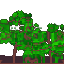
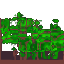
Auto push from gen.py

diff --git a/projects/Glass Block Refraction/index.html b/projects/Glass Block Refraction/index.html
@@ -38,23 +38,23 @@
                     <div class="action-bar">
                         <a class="action-download" href="./Glass Block Refraction_121092.pxc">
                             <div class="icon"></div>
-                            <p>Download .pxc (15.41 kb)</p>
+                            <p>Download .pxc (16.77 kb)</p>
                         </a>
                     </div>
                 </div>
                 <div class="details">
                     <div style="height: 16px;"></div>
-                    <p>14/9/2026</p>
-                    <p><span class='version-major'>v1.21</span>.10.001</p>
+                    <p>15/9/2026</p>
+                    <p><span class='version-major'>v1.21</span>.10.002</p>
                 </div>
             </div>
             
             <div class="content">
                 <div class="content-wrapper">
-                    <div class="pxc-viewer" id="pxc_viewer" style="width: 1272px; height: 1168px;">
-                        <canvas id="pxc_canvas_under" width="2544" height="2336"></canvas>
+                    <div class="pxc-viewer" id="pxc_viewer" style="width: 1408px; height: 1216px;">
+                        <canvas id="pxc_canvas_under" width="2816" height="2432"></canvas>
                         <div id="pxc-nodecontent" class="pxc-nodecontent"></div>
-                        <canvas id="pxc_canvas_over" width="2544" height="2336"></canvas>
+                        <canvas id="pxc_canvas_over" width="2816" height="2432"></canvas>
                     </div>
                 </div>
             </div>
@@ -178,71 +178,88 @@
 
     }
 
-drawNode("Grid", "https://docs.pixel-composer.com/nodes/_index/node_grid.html", 136, 384, 128, 128, "./src/gSDF4u421661AoRs9UHD5aQ0Xwkj5Hq6.png");
-drawNode("Displace", "https://docs.pixel-composer.com/nodes/_index/node_displace.html", 792, 208, 128, 128, "./src/gSDF5B4365384JksJyHTcv513SC542QN.png");
-connect(760, 56, 792, 232);
-connect(600, 408, 792, 248);
-drawNode("Level", "https://docs.pixel-composer.com/nodes/_index/node_level.html", 312, 384, 128, 128, "./src/gSDF5X458820lIhxW0Ktot5HcaCHNYoH.png");
-connect(264, 408, 312, 408);
-drawNode("Blur", "https://docs.pixel-composer.com/nodes/_index/node_blur.html", 472, 384, 128, 128, "./src/gSDF5k471654QfHWycITLP9SAklbxWXW.png");
-connect(440, 568, 472, 408);
-drawPolygon([[120,368],[376,368],[376,176],[80,176],[80,288]], "#50EB17");
-drawNode("Trunk", "https://docs.pixel-composer.com/nodes/_index/node_mk_tree_root.html", 32, 208, 96, 48, "./src/gSDF6V517021ELc9EKlBeK5iXfb9Gzvc.png");
-drawNode("Render Tree", "https://docs.pixel-composer.com/nodes/_index/node_mk_tree_render.html", 312, 208, 128, 128, "./src/gSDF6V517026CyuI78SHu6VubYmX3v2B.png");
-connect(248, 312, 312, 232);
-drawNode("Branch", "https://docs.pixel-composer.com/nodes/_index/node_mk_tree_branch.html", 152, 208, 96, 48, "./src/gSDF6m533645vp26Wk7Lmdsks8Y9dNnX.png");
-connect(128, 232, 152, 232);
-drawNode("Leaves", "https://docs.pixel-composer.com/nodes/_index/node_mk_tree_leaf.html", 152, 288, 96, 48, "./src/gSDF7D558969D3MZ1k5DVw2fQfUi51Et.png");
-connect(248, 232, 152, 312);
-drawNode("Draw Shape", "https://docs.pixel-composer.com/nodes/_index/node_shape.html", 312, 32, 128, 128, "./src/gSDF9X698441EITSARA0faJCVacAhC6q.png");
-drawNode("Blend", "https://docs.pixel-composer.com/nodes/_index/node_blend.html", 472, 208, 128, 128, "./src/gSDF9f707160YqzO6zIqPbbg77Q0ON8X.png");
-connect(440, 56, 472, 232);
-connect(440, 232, 472, 248);
-drawNode("Draw Gradient", "https://docs.pixel-composer.com/nodes/_index/node_gradient.html", 792, 32, 128, 128, "./src/gSDFAB736748QBfdynQWJt93qn3y2arH.png");
-drawNode("Posterize", "https://docs.pixel-composer.com/nodes/_index/node_posterize.html", 1112, 1008, 128, 128, "./src/gSDFAi769794aqfifGPMnFF0oXfSSMt2.png");
-connect(1240, 872, 1112, 1032);
-drawNode("Blend", "https://docs.pixel-composer.com/nodes/_index/node_blend.html", 952, 208, 128, 128, "./src/gSDFAv7832278z7sg48fiLHsD4V8gsiJ.png");
-connect(920, 56, 952, 232);
-connect(1080, 392, 952, 248);
-drawNode("Draw Shape", "https://docs.pixel-composer.com/nodes/_index/node_shape.html", 472, 32, 128, 128, "./src/gSDFCD858951CslUdqxzo7QswWaKh7fO.png");
-drawNode("Blend", "https://docs.pixel-composer.com/nodes/_index/node_blend.html", 632, 32, 128, 128, "./src/gSDFCH862695fBzC1wBxZyySCwyd8mJc.png");
-connect(600, 56, 632, 56);
-connect(600, 232, 632, 72);
-drawNode("Outline", "https://docs.pixel-composer.com/nodes/_index/node_outline.html", 792, 368, 128, 128, "./src/gSDFCh888768Hgcm9FkudI4dyRagBjY9.png");
-connect(920, 232, 792, 392);
-drawNode("Color Adjust", "https://docs.pixel-composer.com/nodes/_index/node_color_adjust.html", 952, 368, 128, 128, "./src/gSDFDY939302nHTxhcCXvN4MqSaXSzdy.png");
-connect(920, 392, 952, 392);
-drawNode("Vignette", "https://docs.pixel-composer.com/nodes/_index/node_vignette.html", 1112, 368, 128, 128, "./src/gSDFDr958839g9QkqCwEgmrf30rdJF6F.png");
-connect(1240, 232, 1112, 392);
-drawNode("Color Adjust", "https://docs.pixel-composer.com/nodes/_index/node_color_adjust.html", 1112, 208, 128, 128, "./src/gSDFEa1001690UWE75JxSdpnA14iyDX7.png");
-connect(1080, 232, 1112, 232);
-connect(600, 408, 1112, 248);
-drawNode("Normal", "https://docs.pixel-composer.com/nodes/_index/node_normal.html", 472, 560, 128, 128, "./src/gSDFFc10636997PczmYvJ7J4OZUBA8gA.png");
-connect(600, 408, 472, 584);
-drawNode("Normal Light", "https://docs.pixel-composer.com/nodes/_index/node_normal_light.html", 632, 544, 128, 128, "./src/gSDFFf1066615A4N7cet5ruuxVzAL29o.png");
-connect(760, 520, 632, 568);
-connect(600, 584, 632, 584);
-drawNode("Solid", "https://docs.pixel-composer.com/nodes/_index/node_solid.html", 632, 512, 128, 16);
-drawNode("Normal Light", "https://docs.pixel-composer.com/nodes/_index/node_normal_light.html", 632, 704, 128, 128, "./src/gSDFHH1162347bbZ45wBDabUMbJkxy6c.png");
-connect(760, 520, 632, 728);
-connect(600, 584, 632, 744);
-drawNode("Color Adjust", "https://docs.pixel-composer.com/nodes/_index/node_color_adjust.html", 1112, 528, 128, 128, "./src/gSDFHR1172929rZkNzQH9XEwlIhCRwd4.png");
-connect(1240, 392, 1112, 552);
-connect(760, 568, 1112, 568);
-drawNode("Color Adjust", "https://docs.pixel-composer.com/nodes/_index/node_color_adjust.html", 1112, 688, 128, 128, "./src/gSDFHh1188402RMpbbRTxgiBuQ5HWshh.png");
-connect(1240, 552, 1112, 712);
-connect(760, 728, 1112, 728);
-drawNode("Curve", "https://docs.pixel-composer.com/nodes/_index/node_curve.html", 312, 544, 128, 128, "./src/gSDFJV1296798u16SUCVA9wHTsEloRuy.png");
-connect(440, 408, 312, 568);
-drawNode("Stripe", "https://docs.pixel-composer.com/nodes/_index/node_stripe.html", 792, 816, 128, 128, "./src/gSDFKU1355298TSQwaz019E7Xczva9lB.png");
-drawNode("Displace", "https://docs.pixel-composer.com/nodes/_index/node_displace.html", 952, 816, 128, 128, "./src/gSDFKg1367381wUIa94XQl6USs9AKJfx.png");
-connect(920, 840, 952, 840);
-connect(760, 888, 952, 856);
-drawNode("Invert", "https://docs.pixel-composer.com/nodes/_index/node_invert.html", 632, 864, 128, 128, "./src/gSDFL41389858YBYDV3OoI3V9xKp1cgW.png");
-connect(600, 408, 632, 888);
-drawNode("Blend", "https://docs.pixel-composer.com/nodes/_index/node_blend.html", 1112, 848, 128, 128, "./src/gSDFLN1408595S09RccURORngAGCaMD7.png");
-connect(1240, 712, 1112, 872);
-connect(1080, 840, 1112, 888);
+drawNode("Displace", "https://docs.pixel-composer.com/nodes/_index/node_displace.html", 832, 208, 128, 128, "./src/gSDF5B4365384JksJyHTcv513SC542QN.png");
+connect(800, 56, 832, 232);
+connect(640, 408, 832, 248);
+drawNode("Blur", "https://docs.pixel-composer.com/nodes/_index/node_blur.html", 512, 384, 128, 128, "./src/gSDF5k471654QfHWycITLP9SAklbxWXW.png");
+connect(480, 568, 512, 408);
+drawPolygon([[160,368],[416,368],[416,176],[120,176],[120,288]], "#50EB17");
+drawNode("Trunk", "https://docs.pixel-composer.com/nodes/_index/node_mk_tree_root.html", 72, 208, 96, 48, "./src/gSDF6V517021ELc9EKlBeK5iXfb9Gzvc.png");
+drawNode("Render Tree", "https://docs.pixel-composer.com/nodes/_index/node_mk_tree_render.html", 352, 208, 128, 128, "./src/gSDF6V517026CyuI78SHu6VubYmX3v2B.png");
+connect(288, 312, 352, 232);
+drawNode("Branch", "https://docs.pixel-composer.com/nodes/_index/node_mk_tree_branch.html", 192, 208, 96, 48, "./src/gSDF6m533645vp26Wk7Lmdsks8Y9dNnX.png");
+connect(168, 232, 192, 232);
+drawNode("Leaves", "https://docs.pixel-composer.com/nodes/_index/node_mk_tree_leaf.html", 192, 288, 96, 48, "./src/gSDF7D558969D3MZ1k5DVw2fQfUi51Et.png");
+connect(288, 232, 192, 312);
+drawNode("Draw Shape", "https://docs.pixel-composer.com/nodes/_index/node_shape.html", 352, 32, 128, 128, "./src/gSDF9X698441EITSARA0faJCVacAhC6q.png");
+drawNode("Blend", "https://docs.pixel-composer.com/nodes/_index/node_blend.html", 512, 208, 128, 128, "./src/gSDF9f707160YqzO6zIqPbbg77Q0ON8X.png");
+connect(480, 56, 512, 232);
+connect(480, 232, 512, 248);
+drawNode("Draw Gradient", "https://docs.pixel-composer.com/nodes/_index/node_gradient.html", 832, 32, 128, 128, "./src/gSDFAB736748QBfdynQWJt93qn3y2arH.png");
+drawNode("Blend", "https://docs.pixel-composer.com/nodes/_index/node_blend.html", 992, 208, 128, 128, "./src/gSDFAv7832278z7sg48fiLHsD4V8gsiJ.png");
+connect(960, 56, 992, 232);
+connect(1120, 392, 992, 248);
+drawNode("Draw Shape", "https://docs.pixel-composer.com/nodes/_index/node_shape.html", 512, 32, 128, 128, "./src/gSDFCD858951CslUdqxzo7QswWaKh7fO.png");
+drawNode("Blend", "https://docs.pixel-composer.com/nodes/_index/node_blend.html", 672, 32, 128, 128, "./src/gSDFCH862695fBzC1wBxZyySCwyd8mJc.png");
+connect(640, 56, 672, 56);
+connect(640, 232, 672, 72);
+drawNode("Outline", "https://docs.pixel-composer.com/nodes/_index/node_outline.html", 832, 368, 128, 128, "./src/gSDFCh888768Hgcm9FkudI4dyRagBjY9.png");
+connect(960, 232, 832, 392);
+drawNode("Color Adjust", "https://docs.pixel-composer.com/nodes/_index/node_color_adjust.html", 992, 368, 128, 128, "./src/gSDFDY939302nHTxhcCXvN4MqSaXSzdy.png");
+connect(960, 392, 992, 392);
+drawNode("Vignette", "https://docs.pixel-composer.com/nodes/_index/node_vignette.html", 1152, 368, 128, 128, "./src/gSDFDr958839g9QkqCwEgmrf30rdJF6F.png");
+connect(1280, 232, 1152, 392);
+drawNode("Color Adjust", "https://docs.pixel-composer.com/nodes/_index/node_color_adjust.html", 1152, 208, 128, 128, "./src/gSDFEa1001690UWE75JxSdpnA14iyDX7.png");
+connect(1120, 232, 1152, 232);
+connect(640, 408, 1152, 248);
+drawNode("Normal", "https://docs.pixel-composer.com/nodes/_index/node_normal.html", 512, 560, 128, 128, "./src/gSDFFc10636997PczmYvJ7J4OZUBA8gA.png");
+connect(640, 408, 512, 584);
+drawNode("Normal Light", "https://docs.pixel-composer.com/nodes/_index/node_normal_light.html", 672, 544, 128, 128, "./src/gSDFFf1066615A4N7cet5ruuxVzAL29o.png");
+connect(800, 520, 672, 568);
+connect(640, 584, 672, 584);
+drawNode("Solid", "https://docs.pixel-composer.com/nodes/_index/node_solid.html", 672, 512, 128, 16);
+drawNode("Normal Light", "https://docs.pixel-composer.com/nodes/_index/node_normal_light.html", 672, 704, 128, 128, "./src/gSDFHH1162347bbZ45wBDabUMbJkxy6c.png");
+connect(800, 520, 672, 728);
+connect(640, 584, 672, 744);
+drawNode("Color Adjust", "https://docs.pixel-composer.com/nodes/_index/node_color_adjust.html", 1152, 528, 128, 128, "./src/gSDFHR1172929rZkNzQH9XEwlIhCRwd4.png");
+connect(1280, 392, 1152, 552);
+connect(800, 568, 1152, 568);
+drawNode("Color Adjust", "https://docs.pixel-composer.com/nodes/_index/node_color_adjust.html", 1152, 688, 128, 128, "./src/gSDFHh1188402RMpbbRTxgiBuQ5HWshh.png");
+connect(1280, 552, 1152, 712);
+connect(800, 728, 1152, 728);
+drawNode("Curve", "https://docs.pixel-composer.com/nodes/_index/node_curve.html", 352, 544, 128, 128, "./src/gSDFJV1296798u16SUCVA9wHTsEloRuy.png");
+connect(480, 408, 352, 568);
+drawNode("Stripe", "https://docs.pixel-composer.com/nodes/_index/node_stripe.html", 832, 816, 128, 128, "./src/gSDFKU1355298TSQwaz019E7Xczva9lB.png");
+drawNode("Displace", "https://docs.pixel-composer.com/nodes/_index/node_displace.html", 992, 816, 128, 128, "./src/gSDFKg1367381wUIa94XQl6USs9AKJfx.png");
+connect(960, 840, 992, 840);
+connect(800, 888, 992, 856);
+drawNode("Invert", "https://docs.pixel-composer.com/nodes/_index/node_invert.html", 672, 864, 128, 128, "./src/gSDFL41389858YBYDV3OoI3V9xKp1cgW.png");
+connect(640, 408, 672, 888);
+drawNode("Blend", "https://docs.pixel-composer.com/nodes/_index/node_blend.html", 1152, 848, 128, 128, "./src/gSDFLN1408595S09RccURORngAGCaMD7.png");
+connect(1280, 712, 1152, 872);
+connect(1120, 840, 1152, 888);
+drawNode("Color Adjust", "https://docs.pixel-composer.com/nodes/_index/node_color_adjust.html", 1088, 1056, 128, 128, "./src/gSE5q4349937vQTmjolKlVcvnAAXZZEV.png");
+connect(1280, 872, 1088, 1080);
+connect(1040, 1080, 1088, 1096);
+drawNode("Blend", "https://docs.pixel-composer.com/nodes/_index/node_blend.html", 576, 1056, 128, 128, "./src/gSE5qb382331FB6zZbhPMWvXJFuTxYZC.png");
+connect(480, 408, 576, 1080);
+connect(528, 1080, 576, 1096);
+drawNode("Level", "https://docs.pixel-composer.com/nodes/_index/node_level.html", 352, 384, 128, 128, "./src/gSDF5X458820lIhxW0Ktot5HcaCHNYoH.png");
+connect(320, 408, 352, 408);
+drawNode("Grid", "https://docs.pixel-composer.com/nodes/_index/node_grid.html", 32, 384, 128, 128, "./src/gSDF4u421661AoRs9UHD5aQ0Xwkj5Hq6.png");
+drawNode("Offset", "https://docs.pixel-composer.com/nodes/_index/node_offset.html", 192, 384, 128, 128, "./src/gSE5rw463574zeHJlnm27k3rMJy13rqB.png");
+connect(160, 408, 192, 408);
+drawNode("Offset", "https://docs.pixel-composer.com/nodes/_index/node_offset.html", 400, 1056, 128, 128, "./src/gSE5sL486929UkDABNbDFLIbebgIkihW.png");
+connect(368, 1080, 400, 1080);
+drawNode("Threshold", "https://docs.pixel-composer.com/nodes/_index/node_threshold.html", 752, 1056, 128, 128, "./src/gSE5pl332529bvsLvmrGlTdhAuUhipEf.png");
+connect(704, 1080, 752, 1080);
+drawNode("Invert", "https://docs.pixel-composer.com/nodes/_index/node_invert.html", 912, 1056, 128, 128, "./src/gSE5ps3399155MFO4PpiVjRFOok0R48k.png");
+connect(880, 1080, 912, 1080);
+drawNode("Tile", "https://docs.pixel-composer.com/nodes/_index/node_tile.html", 240, 1056, 128, 128, "./src/gSE5sZ500331JV98qrlxbWtlZ6RVo4V6.png");
+connect(208, 1080, 240, 1080);
+drawNode("Simplex Noise", "https://docs.pixel-composer.com/nodes/_index/node_noise_simplex.html", 80, 1056, 128, 128, "./src/gSE5qV377001RdwAZRD7zafCVPfsp95o.png");
+drawNode("Posterize", "https://docs.pixel-composer.com/nodes/_index/node_posterize.html", 1248, 1056, 128, 128, "./src/gSDFAi769794aqfifGPMnFF0oXfSSMt2.png");
+connect(1216, 1080, 1248, 1080);
 
 
     // drawNode("Node Title", 16, 16, 96, 32);

diff --git a/showcases.html b/showcases.html
@@ -29,7 +29,7 @@
     <a href="./projects\Glass Block Refraction">
         <img class="thumbnail" src="projects/Glass Block Refraction/thumbnail.png">
     </a>
-    <a class="description" title="Download .pxc (15.41 kb)" href="./projects\Glass Block Refraction\Glass Block Refraction_121092.pxc">
+    <a class="description" title="Download .pxc (16.77 kb)" href="./projects\Glass Block Refraction\Glass Block Refraction_121092.pxc">
         <h3 class="project-title">Glass Block Refraction</h3>
         <div class="project-download"></div>
     </a>
